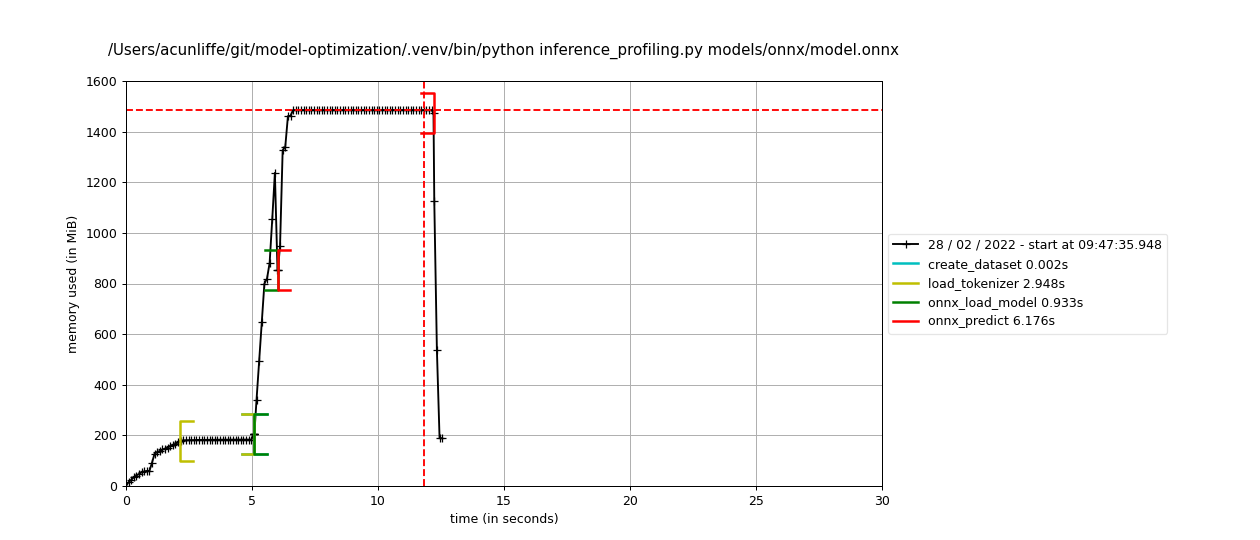
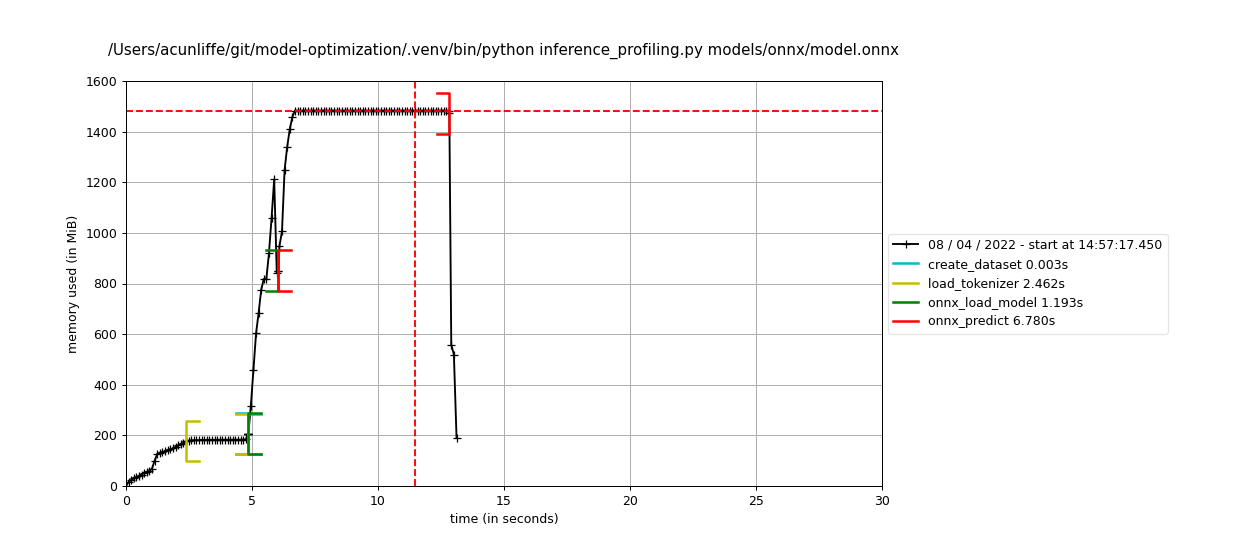
re-run with batch size = 1

diff --git a/inference_profiling.py b/inference_profiling.py
@@ -77,7 +77,8 @@ def main(model_name: str):
             output_dir=tmp_dir,
             do_train=False,
             do_eval=False,
-            do_predict=True
+            do_predict=True,
+            per_device_eval_batch_size=1
         )
         trainer = Trainer(
             model=model,
